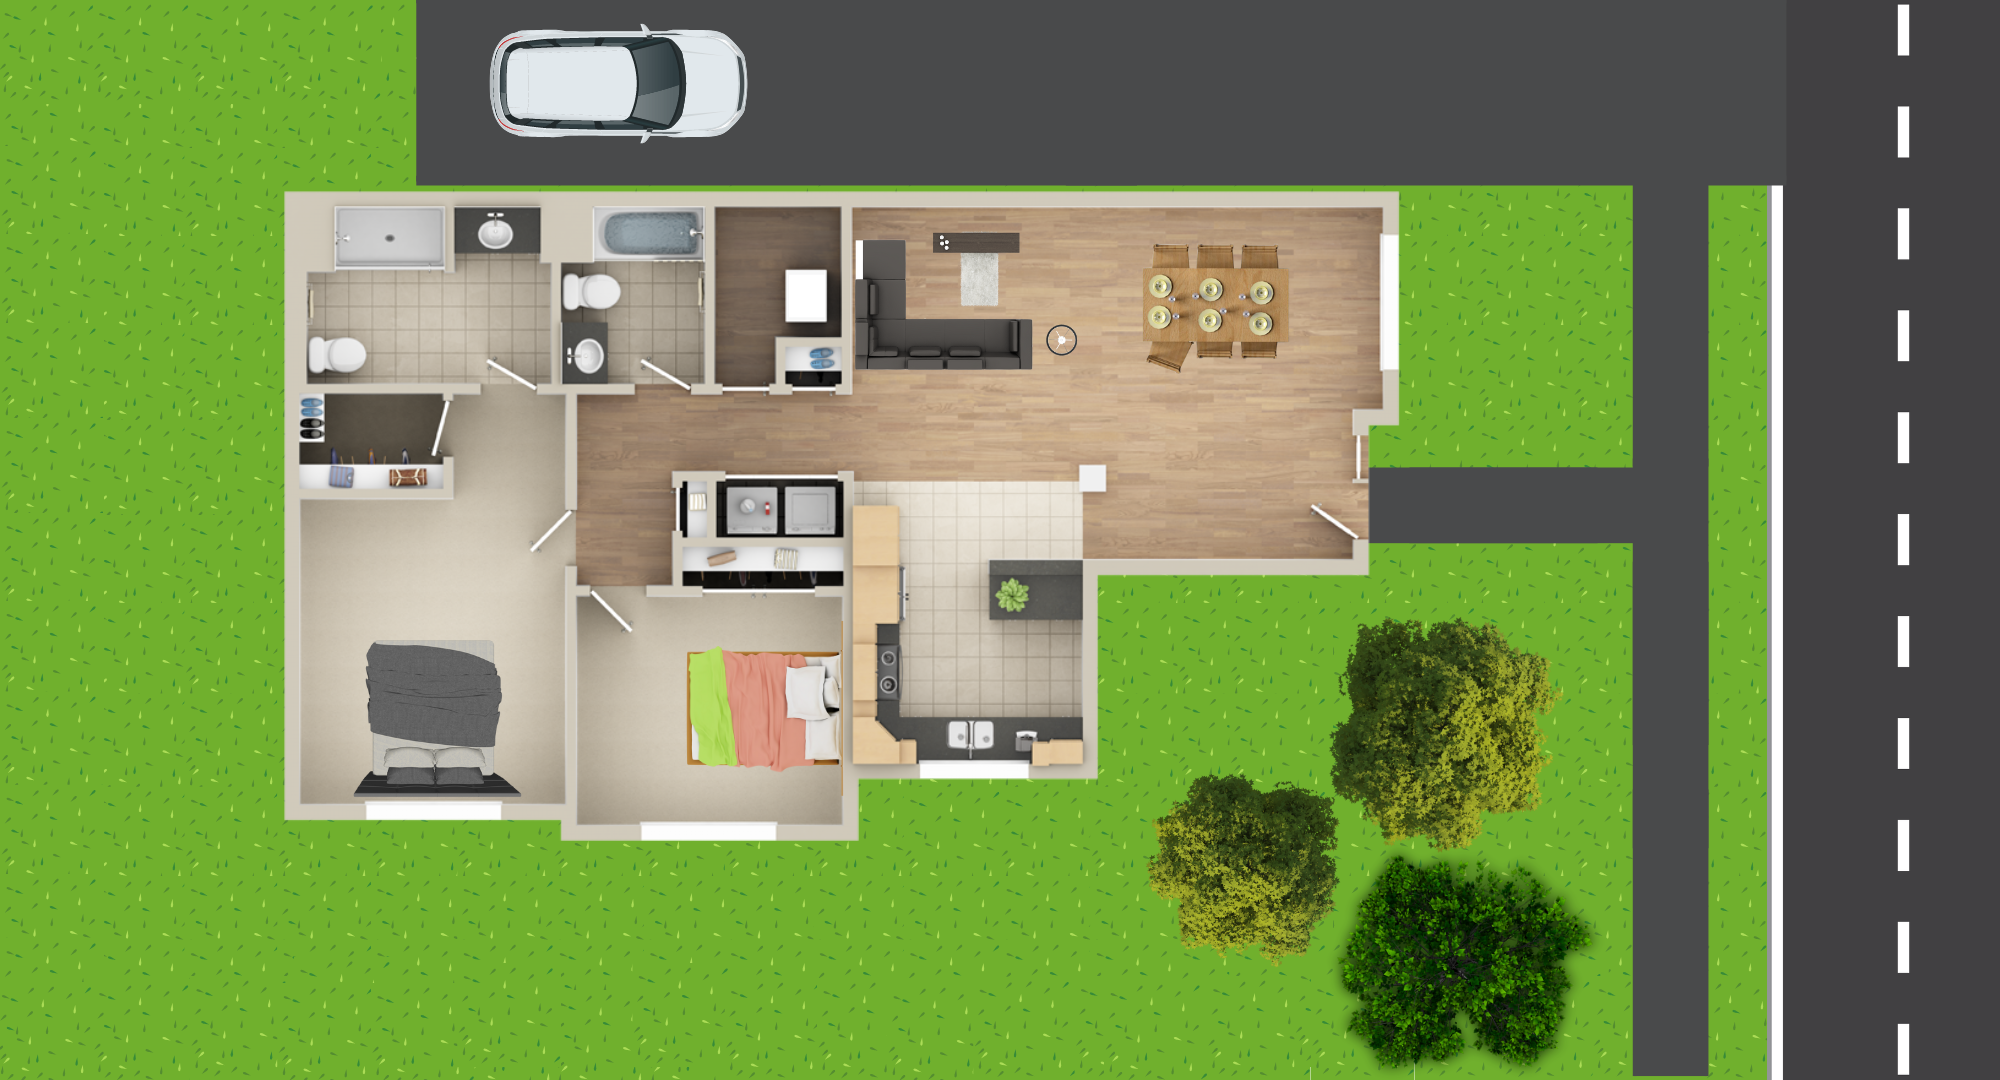
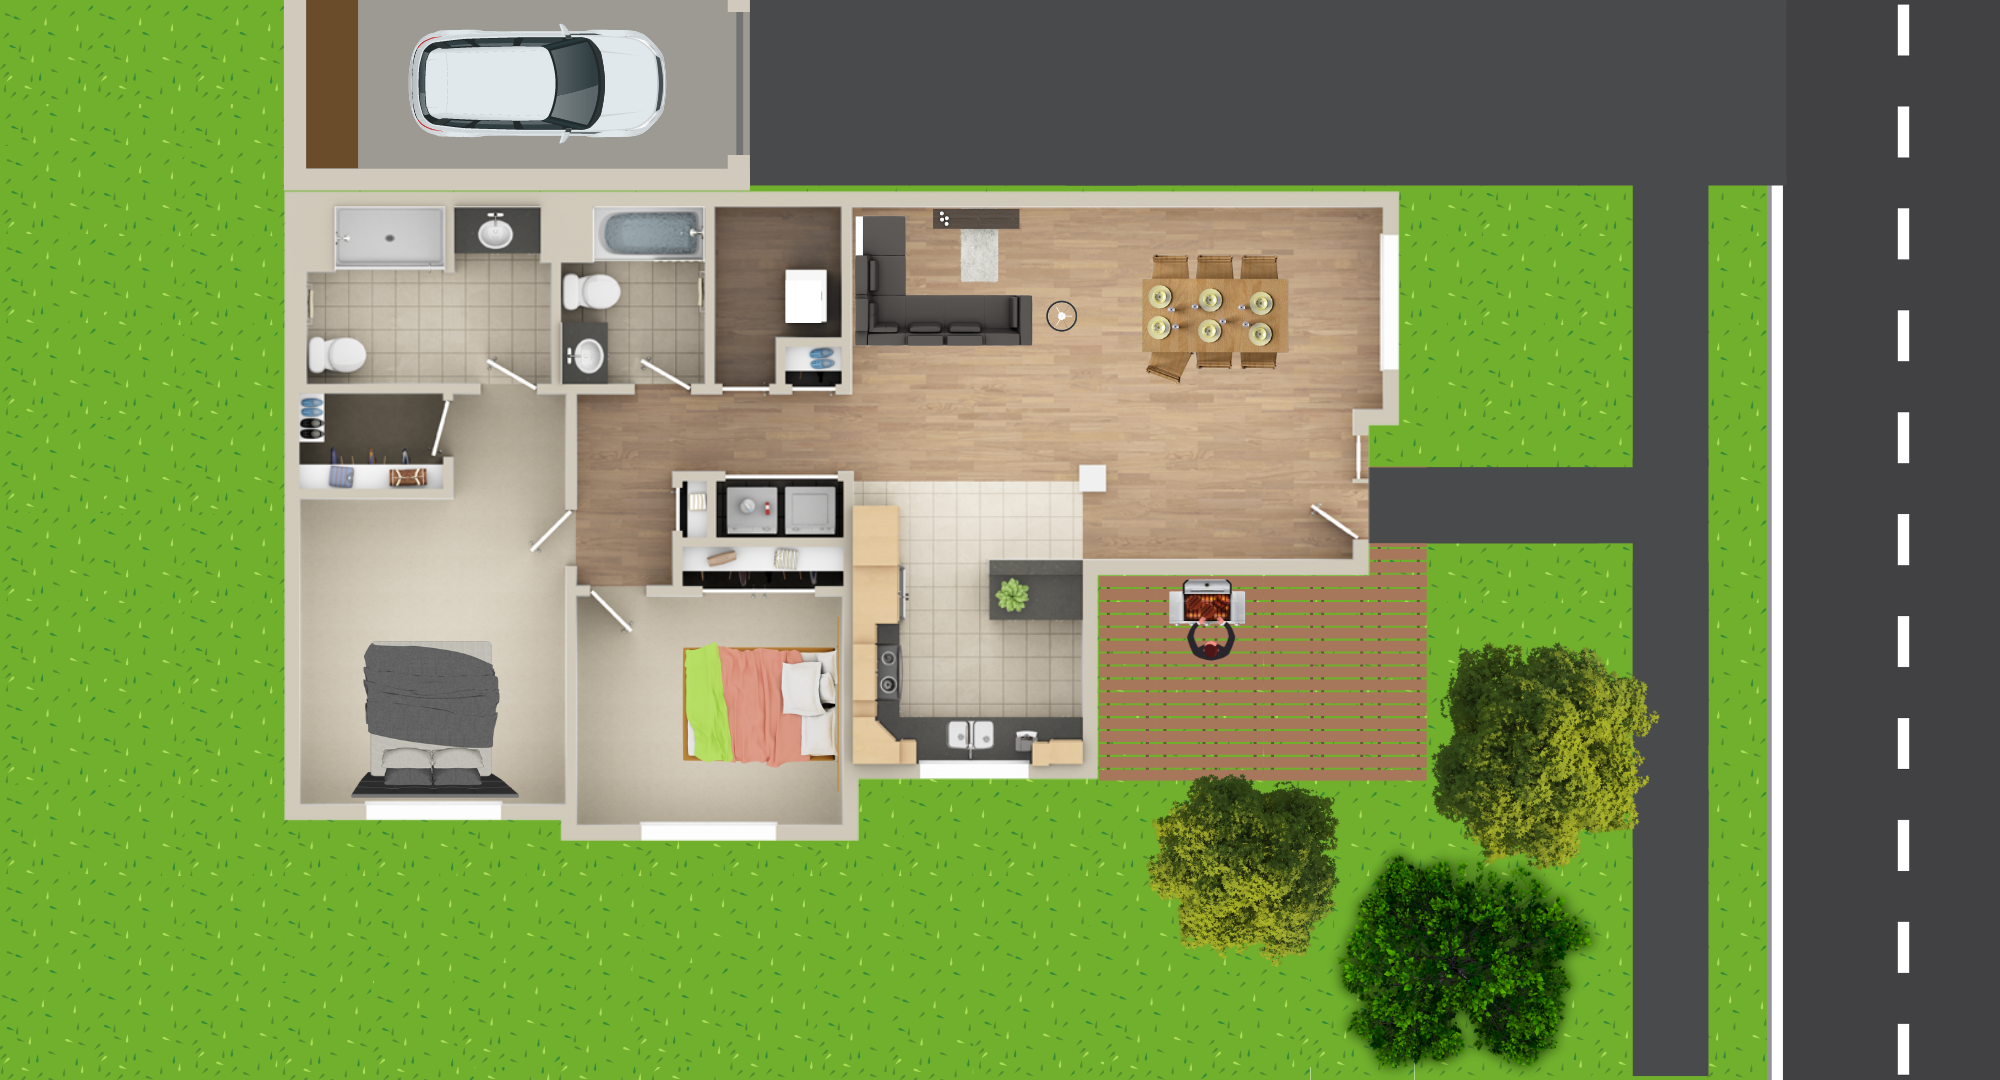
Added bbq sect and effect

diff --git a/index.html b/index.html
@@ -18,15 +18,71 @@
             <button class="marker wiggle winter"></button>
             <button class="marker wiggle escape"></button>
             <button class="marker wiggle smokeAlarms"></button>
+            <button class="marker wiggle bbq"></button>
+        </div>
+        <div class="smoke">
+            <ul>
+                <li></li>
+                <li></li>
+                <li></li>
+                <li></li>
+                <li></li>
+                <li></li>
+                <li></li>
+                <li></li>
+                <li></li>
+                <li></li>
+                <li></li>
+                <li></li>
+            </ul>
         </div>
         <div class="lawnmowewrDiv">
             <img class="lawnmowerUp" src="./img/lawnmowerUp.png">
             <img class="lawnmowerDown" src="./img/lawnmowerDown.png">
         </div>
+        <!-- BBQ -->
+        <div class="bbqDiv content">
+            <div class="contentHead bbqHead">
+                <h3>BBQs and Gas Cylinders</h3>
+                <span class="iconify exit" data-icon="emojione-v1:heavy-multiplication-x" data-width="32"></span>
+            </div>
+            <p>
+                Many Kiwi homes have a gas-powered BBQ outside. These are great for cooking during the summer, but can also pose a fire risk if not stored and maintained correctly.<br><br>
+                Here are some tips for reducing the risk of fire when using BBQs and gas cylinders.
+            </p>
+            <h4>The soap bubble test</h4>
+            <p>
+                A common cause of BBQ fires is gas leaking from where the BBQ hose fits into the cylinder valve.<br>
+                Whenever you connect a gas cylinder to a BBQ, make sure it's hand tight. 
+                You can do this by turning the gas cylinder on, and then pouring a little soapy solution 
+                (1/4 cup of water and a squirt of liquid suds) over the valve.<br>
+                If any bubbles are created you may have a gas leak. Turn the valve off and replace the cylinder O-ring.
+            </p>
+            <h4>BBQs</h4>
+            <ul>
+                <li>BBQs are potentially dangerous when used carelessly or when consuming excessive amounts of alcohol. 
+                    Treat your BBQ the same way you would a stove: don't drink and fry, and avoid leaving cooking unattended.</li>
+                <li>Ensure you regularly check and maintain any fittings and connections. Use the soap bubble test to make sure there are no leaks.</li>
+                <li>Leave plenty of clear space around the BBQ. Make sure there is no nearby debris that could catch fire.</li>
+                <li>Supervise children at all times when using the BBQ.</li>
+                <li>Remove all excess fat from the BBQ after each use.</li>
+            </ul>
+            <h4>Gas cylinders</h4>
+            <ul>
+                <li>Use the soap bubble test to make sure gas cylinders are secure and not leaking.</li>
+                <li>Make sure the cylinder is turned off when you've finished using it.</li>
+                <li>Have all gas appliances serviced according to manufacturer instructions.</li>
+                <li>Store and install cylinders in an upright position.</li>
+            </ul>
+            <div class="contentCredit">
+                (Source: <a href="https://www.fireandemergency.nz/home-and-community-fire-safety/bbqs-and-gas-cylinders/">https://www.fireandemergency.nz/home-and-community-fire-safety/bbqs-and-gas-cylinders</a>)
+            </div>
+        </div>
+        <!-- Bedroom -->
         <div class="bedroomDiv content">
-            <span class="iconify exit" data-icon="emojione-v1:heavy-multiplication-x" data-width="32"></span>
             <div class="contentHead bedroomHead">
                 <h3>Did you know that one in six house fires start in the bedroom?</h3>
+                <span class="iconify exit" data-icon="emojione-v1:heavy-multiplication-x" data-width="32"></span>
             </div>
             <p>Fires that start in the bedroom are particularly dangerous, as there may be people sleeping and unaware.<br> 
                 Here are some simple things you can do to reduce the risk of a fire starting in the bedroom:
@@ -63,9 +119,9 @@
             </div>
         </div>
         <div class="kitchenDiv content">
-            <span class="iconify exit" data-icon="emojione-v1:heavy-multiplication-x" data-width="32"></span>
             <div class="contentHead kitchenHead">
                 <h3>Did you know that one in four house fires start in the kitchen?</h3>
+                <span class="iconify exit" data-icon="emojione-v1:heavy-multiplication-x" data-width="32"></span>
             </div>
             <p>Making your kitchen fire safe is a really important part of having a fire safe home. Here are some simple things you can do to reduce the risk of a fire starting in the kitchen</p>
             <iframe width="560" height="315" src="https://www.youtube.com/embed/WxXTzGfnt_Q" title="YouTube video player" frameborder="0" 
@@ -111,10 +167,11 @@
                 (Source: <a href="https://www.fireandemergency.nz/home-and-community-fire-safety/in-the-kitchen/">https://www.fireandemergency.nz/home-and-community-fire-safety/in-the-kitchen</a>)
             </div>
         </div>
+        <!-- Winter Fire Safety -->
         <div class="winterDiv content">
-            <span class="iconify exit" data-icon="emojione-v1:heavy-multiplication-x" data-width="32"></span>
             <div class="contentHead winterHead">
                 <h3>Winter Fire Safety</h3>
+                <span class="iconify exit" data-icon="emojione-v1:heavy-multiplication-x" data-width="32"></span>
             </div>
                 <p>
                     Every year, as temperatures drop, we see a significant increase in the number of house fires. 
@@ -222,10 +279,11 @@
                     (source: <a href="https://www.fireandemergency.nz/home-and-community-fire-safety/winter-fire-safety/">https://www.fireandemergency.nz/home-and-community-fire-safety/winter-fire-safety</a>)
                 </div>
         </div>
+        <!-- Escape Plan -->
         <div class="escapeDiv content">
-            <span class="iconify exit" data-icon="emojione-v1:heavy-multiplication-x" data-width="32"></span>
             <div class="contentHead escapeHead">
                 <h3>Do you have an escape plan?</h3>
+                <span class="iconify exit" data-icon="emojione-v1:heavy-multiplication-x" data-width="32"></span>
             </div>
             <p>Did you know a house fire can kill you in less than three minutes? <br>
                 In a fire, you'll probably be scared and disorientated. Toxic smoke might make it hard to breathe and see clearly.<br><br>
@@ -248,10 +306,11 @@
                 (source: <a href="https://www.fireandemergency.nz/home-and-community-fire-safety/creating-an-escape-plan/">https://www.fireandemergency.nz/home-and-community-fire-safety/creating-an-escape-plan</a>)
             </div>
         </div>
+        <!-- Smoke Alarms -->
         <div class="smokeAlarmsDiv content">
-            <span class="iconify exit" data-icon="emojione-v1:heavy-multiplication-x" data-width="32"></span>
             <div class="contentHead smokeAlarmsHead">
                 <h3>Which type of smoke alarm should you buy?</h3>
+                <span class="iconify exit" data-icon="emojione-v1:heavy-multiplication-x" data-width="32"></span>
             </div>
             <p>Fire and Emergency New Zealand recommend long-life photoelectric smoke alarms.</p>
             <iframe width="560" height="315" src="https://www.youtube.com/embed/1172mPoIRoE" title="YouTube video player" frameborder="0" 

diff --git a/styles/styles.css b/styles/styles.css
@@ -68,7 +68,11 @@ body{
   .smokeAlarms{
     left: 55%;
     top: 40%;
-  }  
+  }
+  .bbq{
+    left: 65%;
+    top: 75%;
+  }    
   .content{
     height: 90%;
     width: 600px;
@@ -94,7 +98,6 @@ body{
     border-radius: 10px;
   }
   .exit{
-    float: right;
     margin: 10px;
     cursor: pointer;
   }
@@ -103,6 +106,8 @@ body{
     font-weight: bold;
 }
 .contentHead{
+  display: flex;
+  justify-content: space-between;
   border-bottom: 1px solid black;
 }
 .contentCredit{
@@ -168,3 +173,88 @@ body{
     top: 100%;
   }
 }
+/* Smoke animation */
+.smoke ul{
+  position: absolute;
+  top: 63%;
+  left: 60%;
+  transform: translateX(-50%);
+  margin: 0;
+  padding: 0;
+}
+.smoke li{
+  position: absolute;
+  list-style: none;
+  width: 10px;
+  height: 10px;
+  background: #262626;
+  border-radius: 50%;
+  opacity: 0;
+}
+.smoke li:nth-child(even){
+  animation: smokeEven 2.8s linear infinite;
+}
+.smoke li:nth-child(odd){
+  animation: smokeOdd 2.8s linear infinite;
+}
+@keyframes smokeEven{
+  0% { 
+    transform: translate(0,0) scale(1);
+    opacity: 1;
+    filter: blur(5px);
+  }
+  100% { 
+    transform: translate(50px,-150px) scale(3);
+    opacity: 0;
+    filter: blur(10px);
+  }
+}
+@keyframes smokeOdd{
+  0% { 
+    transform: translate(0,0) scale(1);
+    opacity: 1;
+    filter: blur(5px);
+  }
+  100% { 
+    transform: translate(-50px,-150px) scale(3);
+    opacity: 0;
+    filter: blur(10px);
+  }
+}
+.smoke li:nth-child(1){
+  animation-delay: 0s;
+}
+.smoke li:nth-child(2){
+  animation-delay: .4s;
+}
+.smoke li:nth-child(3){
+  animation-delay: .8s;
+}
+.smoke li:nth-child(4){
+  animation-delay: 1.2s;
+}
+.smoke li:nth-child(5){
+  animation-delay: 1.6ss;
+}
+.smoke li:nth-child(6){
+  animation-delay: 2s;
+}
+.smoke li:nth-child(7){
+  animation-delay: 2.4s;
+}
+.smoke li:nth-child(8){
+  animation-delay: 2.8s;
+}
+.smoke li:nth-child(9){
+  animation-delay: 1.6s;
+}
+.smoke li:nth-child(10){
+  animation-delay: 1.8s;
+}
+.smoke li:nth-child(11){
+  animation-delay: 2.2s;
+}
+.smoke li:nth-child(12){
+  animation-delay: 2.6s;
+}
+

diff --git a/script/script.js b/script/script.js
@@ -34,9 +34,16 @@ $(document).ready(function(){
       $(".smokeAlarmsDiv").toggle();
     });
   });
+  //Show BBQ
+  $(document).ready(function(){
+    $(".bbq").click(function(){
+      $(".bbqDiv").animate({right: '0px'});
+      $(".bbqDiv").toggle();
+    });
+  });
   //   Hide displayed content again
   $(document).ready(function(){
-    $(".exit").click(function(){
+    $(".contentHead").click(function(){
       $(".content").animate({right: '-250px'});
       $(".content").css("display", "none")
     });
